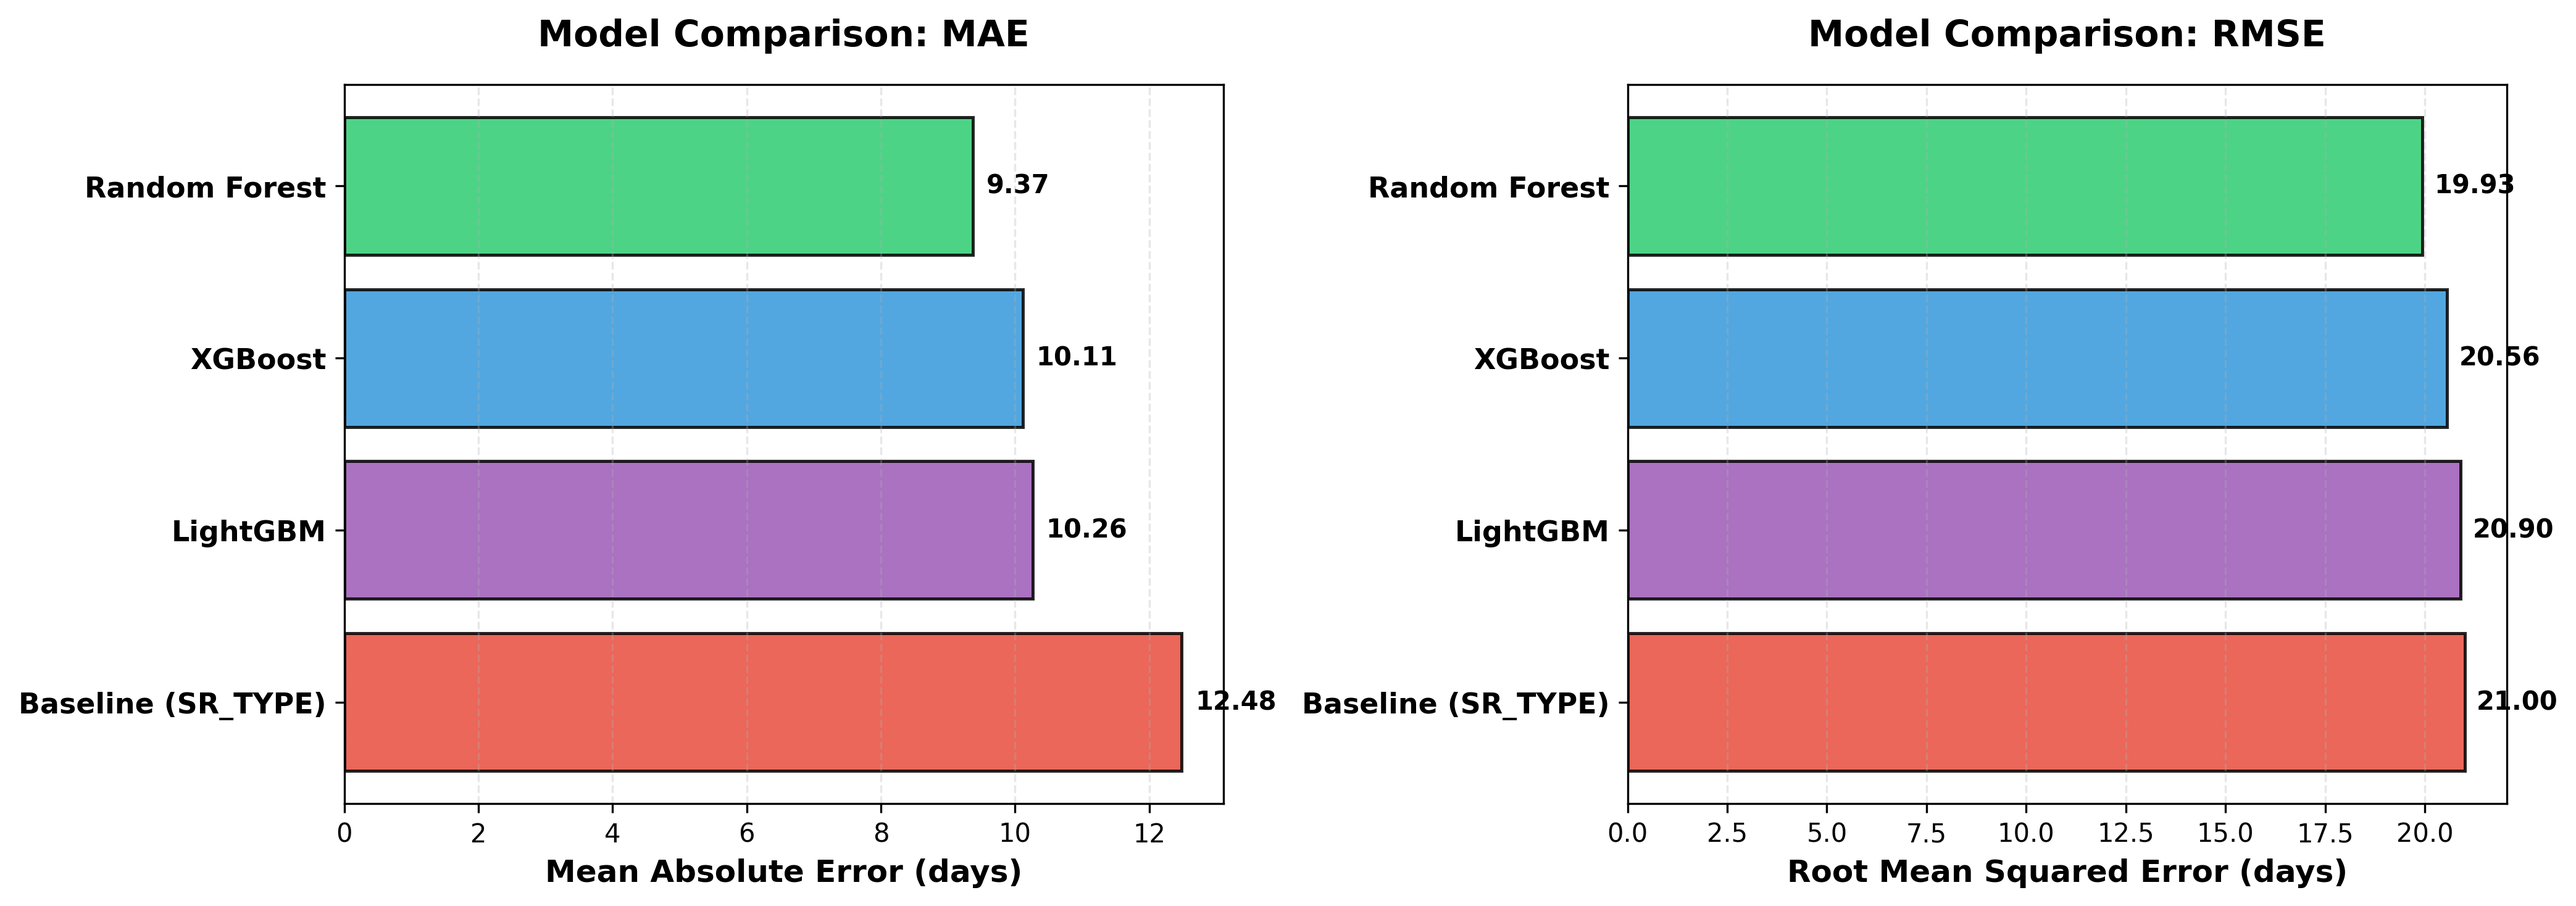
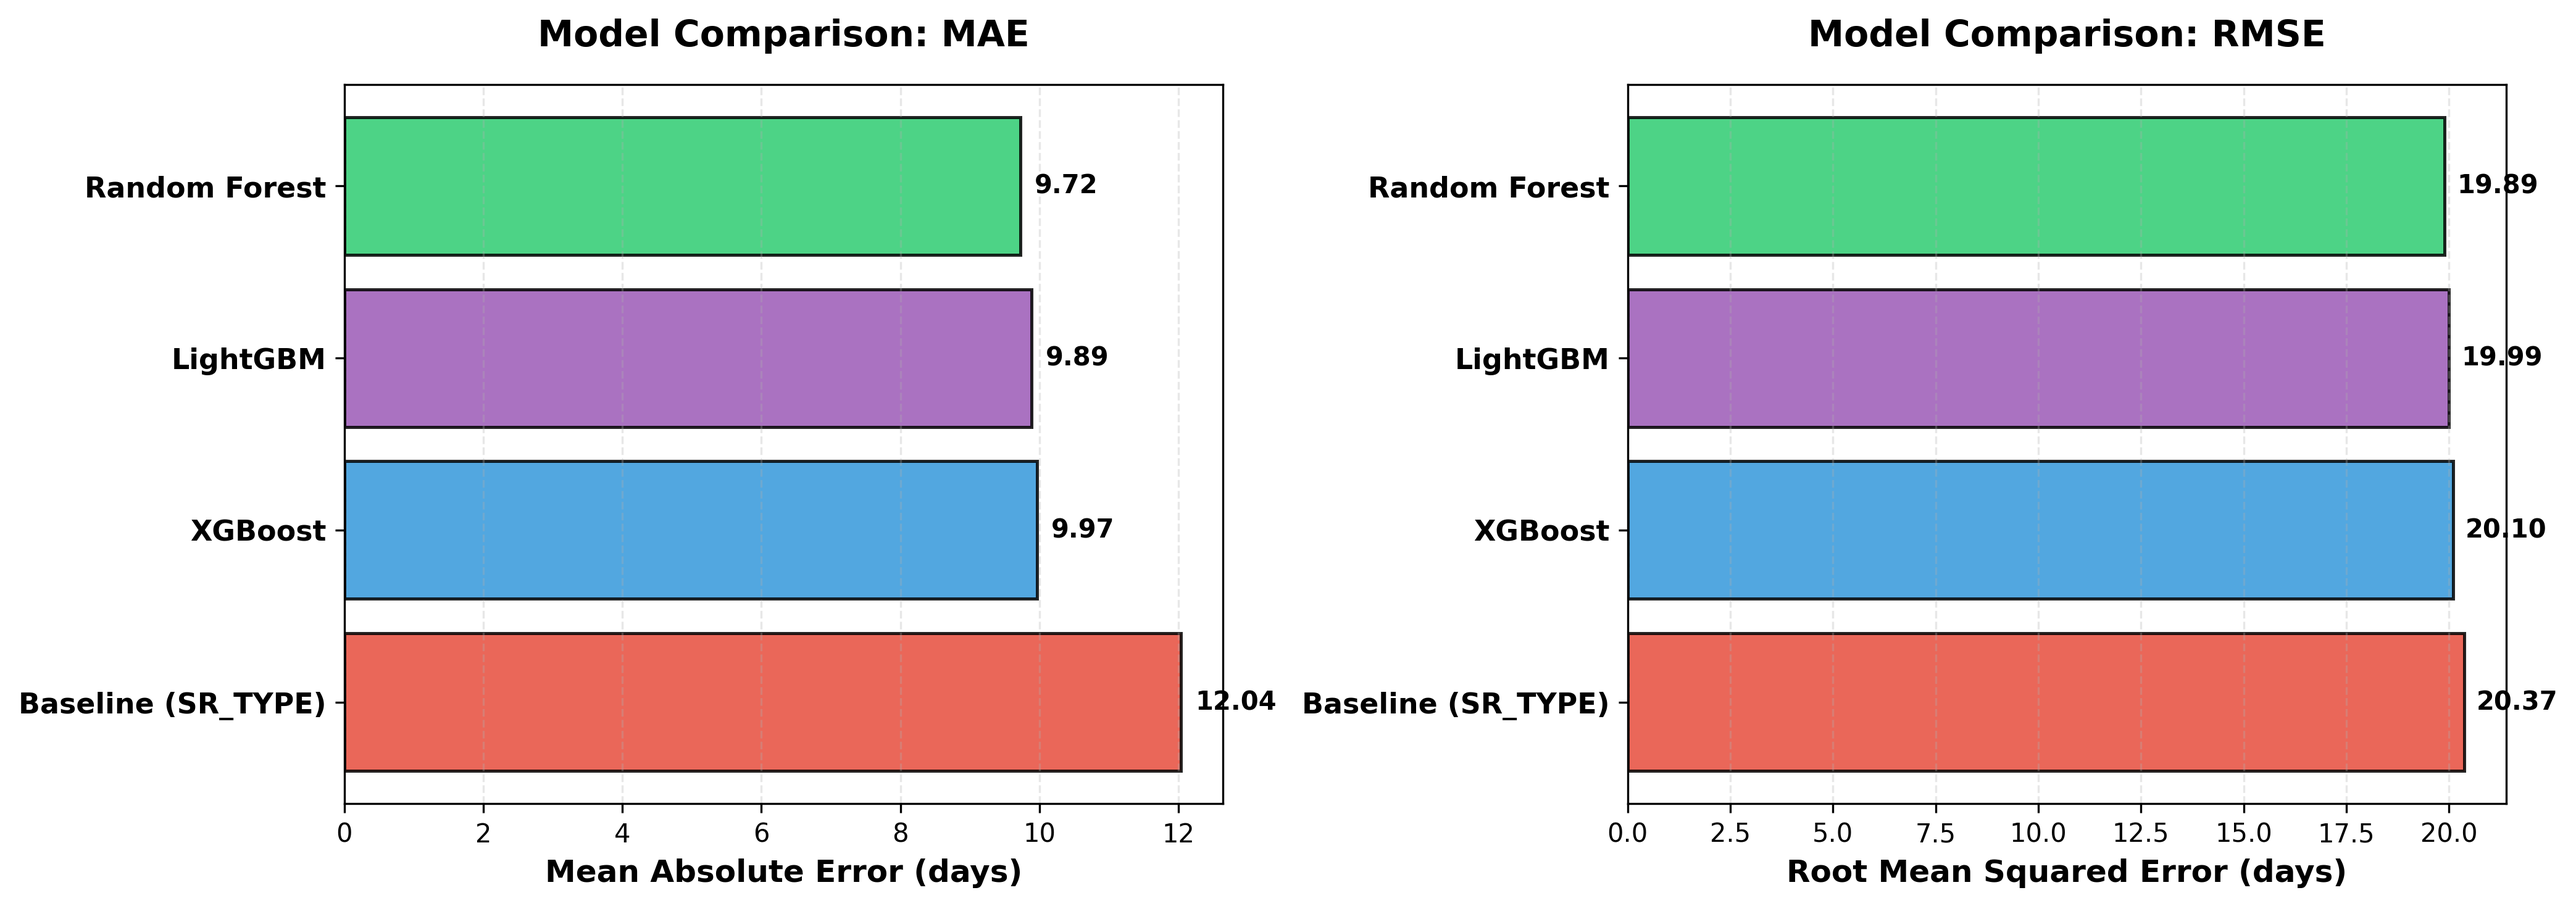
Run models on full dataset with updated results

diff --git a/scripts/variance_analysis.py b/scripts/variance_analysis.py
@@ -306,7 +306,7 @@ def main():
 
     # load data with temporal split
     data_path = Path(__file__).parent.parent / "data/raw/311_Service_Requests_2020.csv"
-    train_df, val_df, test_df = load_and_split_data(data_path=data_path, sample_size=5000, use_validation=True)
+    train_df, val_df, test_df = load_and_split_data(data_path=data_path, sample_size=None, use_validation=True)
 
     categorical_cols = ['SR_TYPE', 'ZIP_CODE', 'ORIGIN']
     numeric_cols = ['CREATED_HOUR', 'CREATED_DAY_OF_WEEK', 'CREATED_MONTH']

diff --git a/main.py b/main.py
@@ -337,7 +337,7 @@ def main():
     print("="*70 + "\n")
 
     # load data with temporal split (includes P99 capping)
-    train_df, _, test_df = load_and_split_data(sample_size=5000, use_validation=True)
+    train_df, _, test_df = load_and_split_data(sample_size=None, use_validation=True)
 
     # sort training data by date for time-series CV
     train_df = train_df.sort_values('CREATED_DATE').reset_index(drop=True)

diff --git a/scripts/eda.py b/scripts/eda.py
@@ -44,9 +44,8 @@ def main():
     df = df_raw[cols].copy()
     df = df.dropna(subset=['RESPONSE_TIME_DAYS'])
 
-    # sample for faster processing (optional - remove for full dataset)
-    np.random.seed(42)
-    df_sample = df.sample(n=min(50000, len(df)), random_state=42).copy()
+    # use full dataset
+    df_sample = df.copy()
 
     print(f"Dataset size: {len(df_sample)} samples")
 
